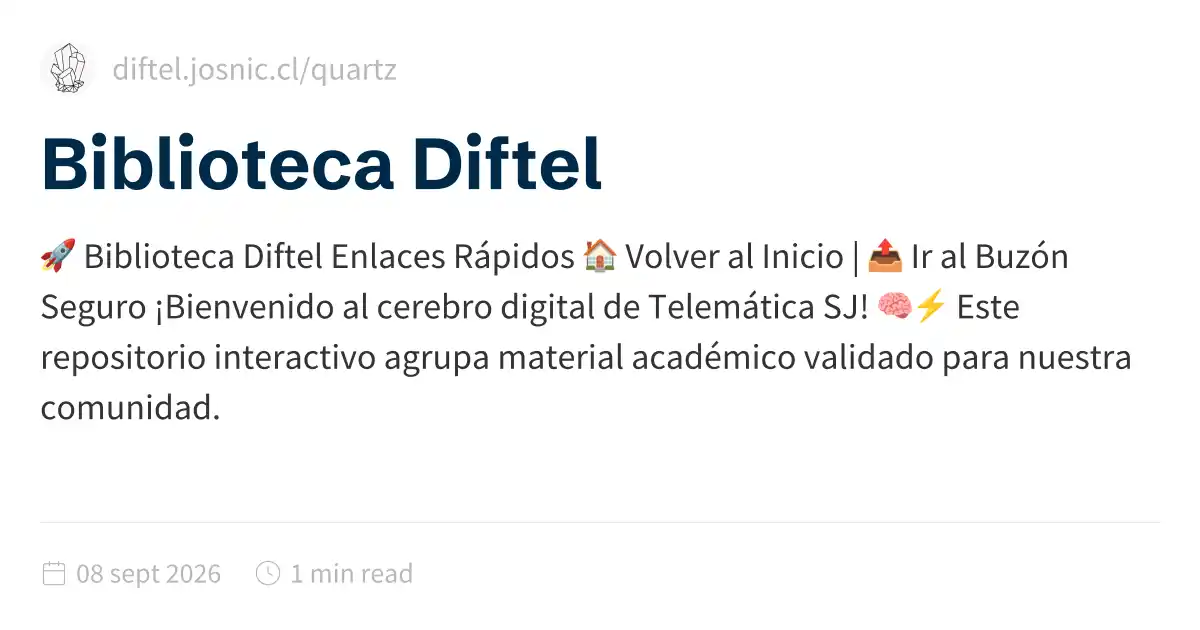
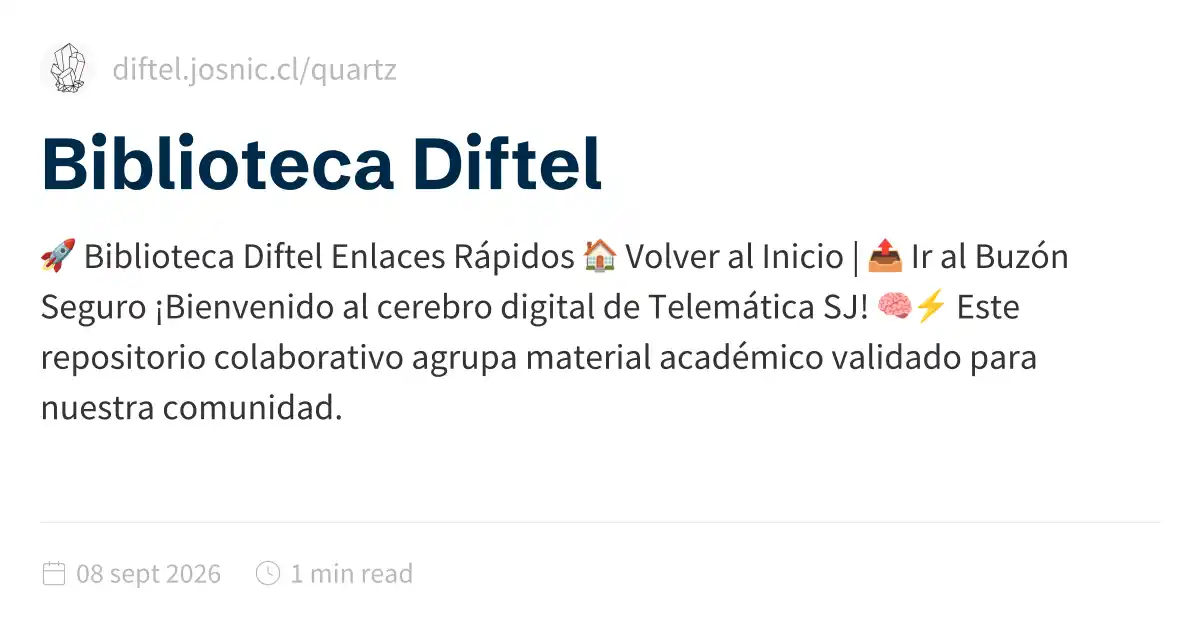
docs(quartz): actualizar apuntes y build de HTML

Changed region(s): [[0.185, 0.5429, 0.9558, 0.6032], [0.0308, 0.6333, 0.2775, 0.6635]]

diff --git a/data/quartz_public/index.html b/data/quartz_public/index.html
@@ -1,5 +1,5 @@
 <!DOCTYPE html>
-<html lang="es" dir="ltr"><head><title>Biblioteca Diftel</title><meta charset="utf-8"/><link rel="preload" href="./index-b246a986.css" as="style"/><link rel="preload" href="./prescript-2bfc6315.js" as="script"/><link rel="preconnect" href="https://fonts.googleapis.com"/><link rel="preconnect" href="https://fonts.gstatic.com"/><link rel="stylesheet" href="https://fonts.googleapis.com/css2?family=Schibsted Grotesk:wght@400;700&amp;family=Source Sans Pro:ital,wght@0,400;0,600;1,400;1,600&amp;family=IBM Plex Mono:wght@400;600&amp;display=swap"/><link rel="preconnect" href="https://cdnjs.cloudflare.com" crossorigin="anonymous"/><meta name="viewport" content="width=device-width, initial-scale=1.0"/><meta name="og:site_name" content="Drive Telemático"/><meta property="og:title" content="Biblioteca Diftel"/><meta property="og:type" content="website"/><meta name="twitter:card" content="summary_large_image"/><meta name="twitter:title" content="Biblioteca Diftel"/><meta name="twitter:description" content="🚀 Biblioteca Diftel Enlaces Rápidos 🏠 Volver al Inicio | 📤 Ir al Buzón Seguro ¡Bienvenido al cerebro digital de Telemática SJ! 🧠⚡ Este repositorio interactivo agrupa material académico validado para nuestra comunidad."/><meta property="og:description" content="🚀 Biblioteca Diftel Enlaces Rápidos 🏠 Volver al Inicio | 📤 Ir al Buzón Seguro ¡Bienvenido al cerebro digital de Telemática SJ! 🧠⚡ Este repositorio interactivo agrupa material académico validado para nuestra comunidad."/><meta property="og:image:alt" content="🚀 Biblioteca Diftel Enlaces Rápidos 🏠 Volver al Inicio | 📤 Ir al Buzón Seguro ¡Bienvenido al cerebro digital de Telemática SJ! 🧠⚡ Este repositorio interactivo agrupa material académico validado para nuestra comunidad."/><meta property="twitter:domain" content="diftel.josnic.cl/quartz"/><meta property="og:url" content="https://diftel.josnic.cl/quartz/index"/><meta property="twitter:url" content="https://diftel.josnic.cl/quartz/index"/><link rel="icon" href="./static/icon.png"/><meta name="description" content="🚀 Biblioteca Diftel Enlaces Rápidos 🏠 Volver al Inicio | 📤 Ir al Buzón Seguro ¡Bienvenido al cerebro digital de Telemática SJ! 🧠⚡ Este repositorio interactivo agrupa material académico validado para nuestra comunidad."/><meta name="generator" content="Quartz"/><link href="./index-b246a986.css" rel="stylesheet" type="text/css" data-persist="true"/><link href="./component-735924e0.css" rel="stylesheet" type="text/css" data-persist="true"/><link href="./component-589c1cea.css" rel="stylesheet" type="text/css" data-persist="true"/><link href="./component-bbc3f7c0.css" rel="stylesheet" type="text/css" data-persist="true"/><link href="./component-2911f5d1.css" rel="stylesheet" type="text/css" data-persist="true"/><link href="./component-e427079e.css" rel="stylesheet" type="text/css" data-persist="true"/><link href="./component-53b25b2b.css" rel="stylesheet" type="text/css" data-persist="true"/><link href="./component-c93c6a44.css" rel="stylesheet" type="text/css" data-persist="true"/><link href="./component-8a06014f.css" rel="stylesheet" type="text/css" data-persist="true"/><link href="./component-77d6a441.css" rel="stylesheet" type="text/css" data-persist="true"/><link href="./component-6ee21cee.css" rel="stylesheet" type="text/css" data-persist="true"/><link href="./component-1ea6ad18.css" rel="stylesheet" type="text/css" data-persist="true"/><link href="./component-34bdfded.css" rel="stylesheet" type="text/css" data-persist="true"/><link href="./component-788c9ca3.css" rel="stylesheet" type="text/css" data-persist="true"/><link href="./component-642859cd.css" rel="stylesheet" type="text/css" data-persist="true"/><link href="./component-4abc06bd.css" rel="stylesheet" type="text/css" data-persist="true"/><link href="./component-274a3dfe.css" rel="stylesheet" type="text/css" data-persist="true"/><link href="./component-94cb6c84.css" rel="stylesheet" type="text/css" data-persist="true"/><link href="./component-58d5ff56.css" rel="stylesheet" type="text/css" data-persist="true"/><link href="./component-7262b5a7.css" rel="stylesheet" type="text/css" data-persist="true"/><link href="./static/resource-style-a5c806d2.css" rel="stylesheet" type="text/css" data-persist="true"/><link href="./static/resource-style-6bd36952.css" rel="stylesheet" type="text/css" data-persist="true"/><link href="./static/resource-style-9857b007.css" rel="stylesheet" type="text/css" data-persist="true"/><link href="./static/resource-style-d3a1a224.css" rel="stylesheet" type="text/css" data-persist="true"/><link href="https://cdn.jsdelivr.net/npm/katex@0.16.11/dist/katex.min.css" rel="stylesheet" type="text/css" data-persist="true"/><script src="./prescript-2bfc6315.js" type="application/javascript" data-persist="true"></script><script type="application/javascript" data-persist="true">const fetchData = fetch("./static/contentIndex.json").then(data => data.json())</script><link rel="preconnect" href="https://fonts.googleapis.com"/><link rel="preconnect" href="https://fonts.gstatic.com" crossorigin="anonymous"/><link rel="stylesheet" href="https://fonts.googleapis.com/css2?family=Schibsted%20Grotesk%3Awght%40400%3B700&amp;family=Source%20Sans%20Pro%3Aital%2Cwght%400%2C400%3B0%2C600%3B1%2C400%3B1%2C600&amp;family=IBM%20Plex%20Mono%3Awght%40400%3B600&amp;display=swap"/><meta property="og:image:width" content="1200"/><meta property="og:image:height" content="630"/><meta property="og:image" content="https://diftel.josnic.cl/quartz/index-og-image.webp"/><meta property="og:image:url" content="https://diftel.josnic.cl/quartz/index-og-image.webp"/><meta name="twitter:image" content="https://diftel.josnic.cl/quartz/index-og-image.webp"/><meta property="og:image:type" content="image/webp"/></head><body data-slug="index" data-basepath="/quartz"><div id="quartz-root" class="page" data-frame="default"><div id="quartz-body"><div class="left sidebar"><h2 class="page-title"><a href=".">Drive Telemático</a></h2><div class="mobile-only"><div class="spacer"></div></div><div class="flex-component" style="flex-direction: row; flex-wrap: nowrap; gap: 0.5rem;"><div style="flex-grow: 1; flex-shrink: 1; flex-basis: auto; order: 0; align-self: center; justify-self: center;"><div class="search"><button class="search-button" aria-label="Buscar" aria-expanded="false"><svg role="img" xmlns="http://www.w3.org/2000/svg" viewBox="0 0 19.9 19.7"><title>Search</title><g class="search-path" fill="none"><path stroke-linecap="square" d="M18.5 18.3l-5.4-5.4"></path><circle cx="8" cy="8" r="7"></circle></g></svg><p>Buscar</p></button><div class="search-container"><div class="search-space"><input autocomplete="off" class="search-bar" name="search" type="text" aria-label="Buscar algo..." placeholder="Buscar algo..."/><div class="search-layout" data-preview="true" data-field-priority="[&quot;title&quot;,&quot;content&quot;,&quot;tags&quot;]"></div></div></div></div></div><div style="flex-grow: 0; flex-shrink: 1; flex-basis: auto; order: 0; align-self: center; justify-self: center;"><button class="darkmode" aria-label="Modo oscuro"><svg xmlns="http://www.w3.org/2000/svg" xmlns:xlink="http://www.w3.org/1999/xlink" version="1.1" class="dayIcon" x="0px" y="0px" viewBox="0 0 35 35" style="enable-background:new 0 0 35 35" xml:space="preserve" aria-label="Modo oscuro"><title>Modo oscuro</title><path d="M6,17.5C6,16.672,5.328,16,4.5,16h-3C0.672,16,0,16.672,0,17.5    S0.672,19,1.5,19h3C5.328,19,6,18.328,6,17.5z M7.5,26c-0.414,0-0.789,0.168-1.061,0.439l-2,2C4.168,28.711,4,29.086,4,29.5    C4,30.328,4.671,31,5.5,31c0.414,0,0.789-0.168,1.06-0.44l2-2C8.832,28.289,9,27.914,9,27.5C9,26.672,8.329,26,7.5,26z M17.5,6    C18.329,6,19,5.328,19,4.5v-3C19,0.672,18.329,0,17.5,0S16,0.672,16,1.5v3C16,5.328,16.671,6,17.5,6z M27.5,9    c0.414,0,0.789-0.168,1.06-0.439l2-2C30.832,6.289,31,5.914,31,5.5C31,4.672,30.329,4,29.5,4c-0.414,0-0.789,0.168-1.061,0.44    l-2,2C26.168,6.711,26,7.086,26,7.5C26,8.328,26.671,9,27.5,9z M6.439,8.561C6.711,8.832,7.086,9,7.5,9C8.328,9,9,8.328,9,7.5    c0-0.414-0.168-0.789-0.439-1.061l-2-2C6.289,4.168,5.914,4,5.5,4C4.672,4,4,4.672,4,5.5c0,0.414,0.168,0.789,0.439,1.06    L6.439,8.561z M33.5,16h-3c-0.828,0-1.5,0.672-1.5,1.5s0.672,1.5,1.5,1.5h3c0.828,0,1.5-0.672,1.5-1.5S34.328,16,33.5,16z     M28.561,26.439C28.289,26.168,27.914,26,27.5,26c-0.828,0-1.5,0.672-1.5,1.5c0,0.414,0.168,0.789,0.439,1.06l2,2    C28.711,30.832,29.086,31,29.5,31c0.828,0,1.5-0.672,1.5-1.5c0-0.414-0.168-0.789-0.439-1.061L28.561,26.439z M17.5,29    c-0.829,0-1.5,0.672-1.5,1.5v3c0,0.828,0.671,1.5,1.5,1.5s1.5-0.672,1.5-1.5v-3C19,29.672,18.329,29,17.5,29z M17.5,7    C11.71,7,7,11.71,7,17.5S11.71,28,17.5,28S28,23.29,28,17.5S23.29,7,17.5,7z M17.5,25c-4.136,0-7.5-3.364-7.5-7.5    c0-4.136,3.364-7.5,7.5-7.5c4.136,0,7.5,3.364,7.5,7.5C25,21.636,21.636,25,17.5,25z"></path></svg><svg xmlns="http://www.w3.org/2000/svg" xmlns:xlink="http://www.w3.org/1999/xlink" version="1.1" class="nightIcon" x="0px" y="0px" viewBox="0 0 100 100" style="enable-background:new 0 0 100 100" xml:space="preserve" aria-label="Modo claro"><title>Modo claro</title><path d="M96.76,66.458c-0.853-0.852-2.15-1.064-3.23-0.534c-6.063,2.991-12.858,4.571-19.655,4.571  C62.022,70.495,50.88,65.88,42.5,57.5C29.043,44.043,25.658,23.536,34.076,6.47c0.532-1.08,0.318-2.379-0.534-3.23  c-0.851-0.852-2.15-1.064-3.23-0.534c-4.918,2.427-9.375,5.619-13.246,9.491c-9.447,9.447-14.65,22.008-14.65,35.369  c0,13.36,5.203,25.921,14.65,35.368s22.008,14.65,35.368,14.65c13.361,0,25.921-5.203,35.369-14.65  c3.872-3.871,7.064-8.328,9.491-13.246C97.826,68.608,97.611,67.309,96.76,66.458z"></path></svg></button></div><div style="flex-grow: 0; flex-shrink: 1; flex-basis: auto; order: 0; align-self: center; justify-self: center;"><button class="readermode" aria-label="Modo lector"><svg xmlns="http://www.w3.org/2000/svg" xmlns:xlink="http://www.w3.org/1999/xlink" version="1.1" class="readerIcon" fill="currentColor" stroke="currentColor" stroke-width="0.2" stroke-linecap="round" stroke-linejoin="round" width="64px" height="64px" viewBox="0 0 24 24" aria-label="Modo lector"><title>Modo lector</title><g transform="translate(-1.8, -1.8) scale(1.15, 1.2)"><path d="M8.9891247,2.5 C10.1384702,2.5 11.2209868,2.96705384 12.0049645,3.76669482 C12.7883914,2.96705384 13.8709081,2.5 15.0202536,2.5 L18.7549359,2.5 C19.1691495,2.5 19.5049359,2.83578644 19.5049359,3.25 L19.5046891,4.004 L21.2546891,4.00457396 C21.6343849,4.00457396 21.9481801,4.28672784 21.9978425,4.6528034 L22.0046891,4.75457396 L22.0046891,20.25 C22.0046891,20.6296958 21.7225353,20.943491 21.3564597,20.9931534 L21.2546891,21 L2.75468914,21 C2.37499337,21 2.06119817,20.7178461 2.01153575,20.3517706 L2.00468914,20.25 L2.00468914,4.75457396 C2.00468914,4.37487819 2.28684302,4.061083 2.65291858,4.01142057 L2.75468914,4.00457396 L4.50368914,4.004 L4.50444233,3.25 C4.50444233,2.87030423 4.78659621,2.55650904 5.15267177,2.50684662 L5.25444233,2.5 L8.9891247,2.5 Z M4.50368914,5.504 L3.50468914,5.504 L3.50468914,19.5 L10.9478955,19.4998273 C10.4513189,18.9207296 9.73864328,18.5588115 8.96709342,18.5065584 L8.77307039,18.5 L5.25444233,18.5 C4.87474657,18.5 4.56095137,18.2178461 4.51128895,17.8517706 L4.50444233,17.75 L4.50368914,5.504 Z M19.5049359,17.75 C19.5049359,18.1642136 19.1691495,18.5 18.7549359,18.5 L15.2363079,18.5 C14.3910149,18.5 13.5994408,18.8724714 13.0614828,19.4998273 L20.5046891,19.5 L20.5046891,5.504 L19.5046891,5.504 L19.5049359,17.75 Z M18.0059359,3.999 L15.0202536,4 L14.8259077,4.00692283 C13.9889509,4.06666544 13.2254227,4.50975805 12.7549359,5.212 L12.7549359,17.777 L12.7782651,17.7601316 C13.4923805,17.2719483 14.3447024,17 15.2363079,17 L18.0059359,16.999 L18.0056891,4.798 L18.0033792,4.75457396 L18.0056891,4.71 L18.0059359,3.999 Z M8.9891247,4 L6.00368914,3.999 L6.00599909,4.75457396 L6.00599909,4.75457396 L6.00368914,4.783 L6.00368914,16.999 L8.77307039,17 C9.57551536,17 10.3461406,17.2202781 11.0128313,17.6202194 L11.2536891,17.776 L11.2536891,5.211 C10.8200889,4.56369974 10.1361548,4.13636104 9.37521067,4.02745763 L9.18347055,4.00692283 L8.9891247,4 Z"></path></g></svg></button></div></div><div class="explorer nav-files-container" data-behavior="link" data-collapsed="collapsed" data-savestate="true" data-data-fns="{&quot;order&quot;:[&quot;filter&quot;,&quot;map&quot;,&quot;sort&quot;],&quot;sortFn&quot;:&quot;(a2, b2) => {\n    if (!a2.isFolder &amp;&amp; !b2.isFolder || a2.isFolder &amp;&amp; b2.isFolder) {\n      return (a2.displayName || \&quot;\&quot;).localeCompare(b2.displayName || \&quot;\&quot;, void 0, {\n        numeric: true,\n        sensitivity: \&quot;base\&quot;\n      });\n    }\n    if (!a2.isFolder &amp;&amp; b2.isFolder) {\n      return 1;\n    }\n    return -1;\n  }&quot;,&quot;filterFn&quot;:&quot;(node) => node.slugSegment !== \&quot;tags\&quot;&quot;,&quot;mapFn&quot;:&quot;(node) => {\n    return node;\n  }&quot;}"><button type="button" class="explorer-toggle mobile-explorer hide-until-loaded" data-mobile="true" aria-controls="explorer-64" aria-label="Explorador"><svg xmlns="http://www.w3.org/2000/svg" width="24" height="24" viewBox="0 0 24 24" stroke-width="2" stroke-linecap="round" stroke-linejoin="round" class="lucide-menu"><line x1="4" x2="20" y1="12" y2="12"></line><line x1="4" x2="20" y1="6" y2="6"></line><line x1="4" x2="20" y1="18" y2="18"></line></svg></button><button type="button" class="title-button explorer-toggle desktop-explorer" data-mobile="false" aria-expanded="true"><h2>Explorador</h2><svg xmlns="http://www.w3.org/2000/svg" width="14" height="14" viewBox="5 8 14 8" fill="none" stroke="currentColor" stroke-width="2" stroke-linecap="round" stroke-linejoin="round" class="fold"><polyline points="6 9 12 15 18 9"></polyline></svg></button><div id="explorer-64" class="explorer-content" aria-expanded="false" role="group"><ul class="explorer-ul overflow" id="list-0"><li class="overflow-end"></li></ul></div><template id="template-file"><li><a href="#" class="nav-file-title tree-item-self"></a></li></template><template id="template-folder"><li><div class="folder-container nav-folder-title tree-item-self"><svg xmlns="http://www.w3.org/2000/svg" width="12" height="12" viewBox="5 8 14 8" fill="none" stroke="currentColor" stroke-width="2" stroke-linecap="round" stroke-linejoin="round" class="folder-icon nav-folder-collapse-indicator collapse-icon"><polyline points="6 9 12 15 18 9"></polyline></svg><div><button class="folder-button"><span class="folder-title"></span></button></div></div><div class="folder-outer"><ul class="content tree-item-children"></ul></div></li></template></div></div><div class="center"><div class="page-header"><div class="popover-hint"><h1 class="article-title">Biblioteca Diftel</h1><p show-comma="true" class="content-meta"><time datetime="2026-09-08T17:31:31.000Z">08 sept 2026</time><span>Se lee en 1 min</span></p></div></div><article class="popover-hint"><div class="markdown-preview-view markdown-rendered"><h1 id="-biblioteca-diftel">🚀 Biblioteca Diftel<a role="anchor" aria-hidden="true" tabindex="-1" data-no-popover="true" href="#-biblioteca-diftel" class="internal internal-link"><svg width="18" height="18" viewBox="0 0 24 24" fill="none" stroke="currentColor" stroke-width="2" stroke-linecap="round" stroke-linejoin="round"><path d="M10 13a5 5 0 0 0 7.54.54l3-3a5 5 0 0 0-7.07-7.07l-1.72 1.71"></path><path d="M14 11a5 5 0 0 0-7.54-.54l-3 3a5 5 0 0 0 7.07 7.07l1.71-1.71"></path></svg></a></h1>
+<html lang="es" dir="ltr"><head><title>Biblioteca Diftel</title><meta charset="utf-8"/><link rel="preload" href="./index-b246a986.css" as="style"/><link rel="preload" href="./prescript-2bfc6315.js" as="script"/><link rel="preconnect" href="https://fonts.googleapis.com"/><link rel="preconnect" href="https://fonts.gstatic.com"/><link rel="stylesheet" href="https://fonts.googleapis.com/css2?family=Schibsted Grotesk:wght@400;700&amp;family=Source Sans Pro:ital,wght@0,400;0,600;1,400;1,600&amp;family=IBM Plex Mono:wght@400;600&amp;display=swap"/><link rel="preconnect" href="https://cdnjs.cloudflare.com" crossorigin="anonymous"/><meta name="viewport" content="width=device-width, initial-scale=1.0"/><meta name="og:site_name" content="Drive Telemático"/><meta property="og:title" content="Biblioteca Diftel"/><meta property="og:type" content="website"/><meta name="twitter:card" content="summary_large_image"/><meta name="twitter:title" content="Biblioteca Diftel"/><meta name="twitter:description" content="🚀 Biblioteca Diftel Enlaces Rápidos 🏠 Volver al Inicio | 📤 Ir al Buzón Seguro ¡Bienvenido al cerebro digital de Telemática SJ! 🧠⚡ Este repositorio colaborativo agrupa material académico validado para nuestra comunidad."/><meta property="og:description" content="🚀 Biblioteca Diftel Enlaces Rápidos 🏠 Volver al Inicio | 📤 Ir al Buzón Seguro ¡Bienvenido al cerebro digital de Telemática SJ! 🧠⚡ Este repositorio colaborativo agrupa material académico validado para nuestra comunidad."/><meta property="og:image:alt" content="🚀 Biblioteca Diftel Enlaces Rápidos 🏠 Volver al Inicio | 📤 Ir al Buzón Seguro ¡Bienvenido al cerebro digital de Telemática SJ! 🧠⚡ Este repositorio colaborativo agrupa material académico validado para nuestra comunidad."/><meta property="twitter:domain" content="diftel.josnic.cl/quartz"/><meta property="og:url" content="https://diftel.josnic.cl/quartz/index"/><meta property="twitter:url" content="https://diftel.josnic.cl/quartz/index"/><link rel="icon" href="./static/icon.png"/><meta name="description" content="🚀 Biblioteca Diftel Enlaces Rápidos 🏠 Volver al Inicio | 📤 Ir al Buzón Seguro ¡Bienvenido al cerebro digital de Telemática SJ! 🧠⚡ Este repositorio colaborativo agrupa material académico validado para nuestra comunidad."/><meta name="generator" content="Quartz"/><link href="./index-b246a986.css" rel="stylesheet" type="text/css" data-persist="true"/><link href="./component-735924e0.css" rel="stylesheet" type="text/css" data-persist="true"/><link href="./component-589c1cea.css" rel="stylesheet" type="text/css" data-persist="true"/><link href="./component-bbc3f7c0.css" rel="stylesheet" type="text/css" data-persist="true"/><link href="./component-2911f5d1.css" rel="stylesheet" type="text/css" data-persist="true"/><link href="./component-e427079e.css" rel="stylesheet" type="text/css" data-persist="true"/><link href="./component-53b25b2b.css" rel="stylesheet" type="text/css" data-persist="true"/><link href="./component-c93c6a44.css" rel="stylesheet" type="text/css" data-persist="true"/><link href="./component-8a06014f.css" rel="stylesheet" type="text/css" data-persist="true"/><link href="./component-77d6a441.css" rel="stylesheet" type="text/css" data-persist="true"/><link href="./component-6ee21cee.css" rel="stylesheet" type="text/css" data-persist="true"/><link href="./component-1ea6ad18.css" rel="stylesheet" type="text/css" data-persist="true"/><link href="./component-34bdfded.css" rel="stylesheet" type="text/css" data-persist="true"/><link href="./component-788c9ca3.css" rel="stylesheet" type="text/css" data-persist="true"/><link href="./component-642859cd.css" rel="stylesheet" type="text/css" data-persist="true"/><link href="./component-4abc06bd.css" rel="stylesheet" type="text/css" data-persist="true"/><link href="./component-274a3dfe.css" rel="stylesheet" type="text/css" data-persist="true"/><link href="./component-94cb6c84.css" rel="stylesheet" type="text/css" data-persist="true"/><link href="./component-58d5ff56.css" rel="stylesheet" type="text/css" data-persist="true"/><link href="./component-7262b5a7.css" rel="stylesheet" type="text/css" data-persist="true"/><link href="./static/resource-style-a5c806d2.css" rel="stylesheet" type="text/css" data-persist="true"/><link href="./static/resource-style-6bd36952.css" rel="stylesheet" type="text/css" data-persist="true"/><link href="./static/resource-style-9857b007.css" rel="stylesheet" type="text/css" data-persist="true"/><link href="./static/resource-style-d3a1a224.css" rel="stylesheet" type="text/css" data-persist="true"/><link href="https://cdn.jsdelivr.net/npm/katex@0.16.11/dist/katex.min.css" rel="stylesheet" type="text/css" data-persist="true"/><script src="./prescript-2bfc6315.js" type="application/javascript" data-persist="true"></script><script type="application/javascript" data-persist="true">const fetchData = fetch("./static/contentIndex.json").then(data => data.json())</script><link rel="preconnect" href="https://fonts.googleapis.com"/><link rel="preconnect" href="https://fonts.gstatic.com" crossorigin="anonymous"/><link rel="stylesheet" href="https://fonts.googleapis.com/css2?family=Schibsted%20Grotesk%3Awght%40400%3B700&amp;family=Source%20Sans%20Pro%3Aital%2Cwght%400%2C400%3B0%2C600%3B1%2C400%3B1%2C600&amp;family=IBM%20Plex%20Mono%3Awght%40400%3B600&amp;display=swap"/><meta property="og:image:width" content="1200"/><meta property="og:image:height" content="630"/><meta property="og:image" content="https://diftel.josnic.cl/quartz/index-og-image.webp"/><meta property="og:image:url" content="https://diftel.josnic.cl/quartz/index-og-image.webp"/><meta name="twitter:image" content="https://diftel.josnic.cl/quartz/index-og-image.webp"/><meta property="og:image:type" content="image/webp"/></head><body data-slug="index" data-basepath="/quartz"><div id="quartz-root" class="page" data-frame="default"><div id="quartz-body"><div class="left sidebar"><h2 class="page-title"><a href=".">Drive Telemático</a></h2><div class="mobile-only"><div class="spacer"></div></div><div class="flex-component" style="flex-direction: row; flex-wrap: nowrap; gap: 0.5rem;"><div style="flex-grow: 1; flex-shrink: 1; flex-basis: auto; order: 0; align-self: center; justify-self: center;"><div class="search"><button class="search-button" aria-label="Buscar" aria-expanded="false"><svg role="img" xmlns="http://www.w3.org/2000/svg" viewBox="0 0 19.9 19.7"><title>Search</title><g class="search-path" fill="none"><path stroke-linecap="square" d="M18.5 18.3l-5.4-5.4"></path><circle cx="8" cy="8" r="7"></circle></g></svg><p>Buscar</p></button><div class="search-container"><div class="search-space"><input autocomplete="off" class="search-bar" name="search" type="text" aria-label="Buscar algo..." placeholder="Buscar algo..."/><div class="search-layout" data-preview="true" data-field-priority="[&quot;title&quot;,&quot;content&quot;,&quot;tags&quot;]"></div></div></div></div></div><div style="flex-grow: 0; flex-shrink: 1; flex-basis: auto; order: 0; align-self: center; justify-self: center;"><button class="darkmode" aria-label="Modo oscuro"><svg xmlns="http://www.w3.org/2000/svg" xmlns:xlink="http://www.w3.org/1999/xlink" version="1.1" class="dayIcon" x="0px" y="0px" viewBox="0 0 35 35" style="enable-background:new 0 0 35 35" xml:space="preserve" aria-label="Modo oscuro"><title>Modo oscuro</title><path d="M6,17.5C6,16.672,5.328,16,4.5,16h-3C0.672,16,0,16.672,0,17.5    S0.672,19,1.5,19h3C5.328,19,6,18.328,6,17.5z M7.5,26c-0.414,0-0.789,0.168-1.061,0.439l-2,2C4.168,28.711,4,29.086,4,29.5    C4,30.328,4.671,31,5.5,31c0.414,0,0.789-0.168,1.06-0.44l2-2C8.832,28.289,9,27.914,9,27.5C9,26.672,8.329,26,7.5,26z M17.5,6    C18.329,6,19,5.328,19,4.5v-3C19,0.672,18.329,0,17.5,0S16,0.672,16,1.5v3C16,5.328,16.671,6,17.5,6z M27.5,9    c0.414,0,0.789-0.168,1.06-0.439l2-2C30.832,6.289,31,5.914,31,5.5C31,4.672,30.329,4,29.5,4c-0.414,0-0.789,0.168-1.061,0.44    l-2,2C26.168,6.711,26,7.086,26,7.5C26,8.328,26.671,9,27.5,9z M6.439,8.561C6.711,8.832,7.086,9,7.5,9C8.328,9,9,8.328,9,7.5    c0-0.414-0.168-0.789-0.439-1.061l-2-2C6.289,4.168,5.914,4,5.5,4C4.672,4,4,4.672,4,5.5c0,0.414,0.168,0.789,0.439,1.06    L6.439,8.561z M33.5,16h-3c-0.828,0-1.5,0.672-1.5,1.5s0.672,1.5,1.5,1.5h3c0.828,0,1.5-0.672,1.5-1.5S34.328,16,33.5,16z     M28.561,26.439C28.289,26.168,27.914,26,27.5,26c-0.828,0-1.5,0.672-1.5,1.5c0,0.414,0.168,0.789,0.439,1.06l2,2    C28.711,30.832,29.086,31,29.5,31c0.828,0,1.5-0.672,1.5-1.5c0-0.414-0.168-0.789-0.439-1.061L28.561,26.439z M17.5,29    c-0.829,0-1.5,0.672-1.5,1.5v3c0,0.828,0.671,1.5,1.5,1.5s1.5-0.672,1.5-1.5v-3C19,29.672,18.329,29,17.5,29z M17.5,7    C11.71,7,7,11.71,7,17.5S11.71,28,17.5,28S28,23.29,28,17.5S23.29,7,17.5,7z M17.5,25c-4.136,0-7.5-3.364-7.5-7.5    c0-4.136,3.364-7.5,7.5-7.5c4.136,0,7.5,3.364,7.5,7.5C25,21.636,21.636,25,17.5,25z"></path></svg><svg xmlns="http://www.w3.org/2000/svg" xmlns:xlink="http://www.w3.org/1999/xlink" version="1.1" class="nightIcon" x="0px" y="0px" viewBox="0 0 100 100" style="enable-background:new 0 0 100 100" xml:space="preserve" aria-label="Modo claro"><title>Modo claro</title><path d="M96.76,66.458c-0.853-0.852-2.15-1.064-3.23-0.534c-6.063,2.991-12.858,4.571-19.655,4.571  C62.022,70.495,50.88,65.88,42.5,57.5C29.043,44.043,25.658,23.536,34.076,6.47c0.532-1.08,0.318-2.379-0.534-3.23  c-0.851-0.852-2.15-1.064-3.23-0.534c-4.918,2.427-9.375,5.619-13.246,9.491c-9.447,9.447-14.65,22.008-14.65,35.369  c0,13.36,5.203,25.921,14.65,35.368s22.008,14.65,35.368,14.65c13.361,0,25.921-5.203,35.369-14.65  c3.872-3.871,7.064-8.328,9.491-13.246C97.826,68.608,97.611,67.309,96.76,66.458z"></path></svg></button></div><div style="flex-grow: 0; flex-shrink: 1; flex-basis: auto; order: 0; align-self: center; justify-self: center;"><button class="readermode" aria-label="Modo lector"><svg xmlns="http://www.w3.org/2000/svg" xmlns:xlink="http://www.w3.org/1999/xlink" version="1.1" class="readerIcon" fill="currentColor" stroke="currentColor" stroke-width="0.2" stroke-linecap="round" stroke-linejoin="round" width="64px" height="64px" viewBox="0 0 24 24" aria-label="Modo lector"><title>Modo lector</title><g transform="translate(-1.8, -1.8) scale(1.15, 1.2)"><path d="M8.9891247,2.5 C10.1384702,2.5 11.2209868,2.96705384 12.0049645,3.76669482 C12.7883914,2.96705384 13.8709081,2.5 15.0202536,2.5 L18.7549359,2.5 C19.1691495,2.5 19.5049359,2.83578644 19.5049359,3.25 L19.5046891,4.004 L21.2546891,4.00457396 C21.6343849,4.00457396 21.9481801,4.28672784 21.9978425,4.6528034 L22.0046891,4.75457396 L22.0046891,20.25 C22.0046891,20.6296958 21.7225353,20.943491 21.3564597,20.9931534 L21.2546891,21 L2.75468914,21 C2.37499337,21 2.06119817,20.7178461 2.01153575,20.3517706 L2.00468914,20.25 L2.00468914,4.75457396 C2.00468914,4.37487819 2.28684302,4.061083 2.65291858,4.01142057 L2.75468914,4.00457396 L4.50368914,4.004 L4.50444233,3.25 C4.50444233,2.87030423 4.78659621,2.55650904 5.15267177,2.50684662 L5.25444233,2.5 L8.9891247,2.5 Z M4.50368914,5.504 L3.50468914,5.504 L3.50468914,19.5 L10.9478955,19.4998273 C10.4513189,18.9207296 9.73864328,18.5588115 8.96709342,18.5065584 L8.77307039,18.5 L5.25444233,18.5 C4.87474657,18.5 4.56095137,18.2178461 4.51128895,17.8517706 L4.50444233,17.75 L4.50368914,5.504 Z M19.5049359,17.75 C19.5049359,18.1642136 19.1691495,18.5 18.7549359,18.5 L15.2363079,18.5 C14.3910149,18.5 13.5994408,18.8724714 13.0614828,19.4998273 L20.5046891,19.5 L20.5046891,5.504 L19.5046891,5.504 L19.5049359,17.75 Z M18.0059359,3.999 L15.0202536,4 L14.8259077,4.00692283 C13.9889509,4.06666544 13.2254227,4.50975805 12.7549359,5.212 L12.7549359,17.777 L12.7782651,17.7601316 C13.4923805,17.2719483 14.3447024,17 15.2363079,17 L18.0059359,16.999 L18.0056891,4.798 L18.0033792,4.75457396 L18.0056891,4.71 L18.0059359,3.999 Z M8.9891247,4 L6.00368914,3.999 L6.00599909,4.75457396 L6.00599909,4.75457396 L6.00368914,4.783 L6.00368914,16.999 L8.77307039,17 C9.57551536,17 10.3461406,17.2202781 11.0128313,17.6202194 L11.2536891,17.776 L11.2536891,5.211 C10.8200889,4.56369974 10.1361548,4.13636104 9.37521067,4.02745763 L9.18347055,4.00692283 L8.9891247,4 Z"></path></g></svg></button></div></div><div class="explorer nav-files-container" data-behavior="link" data-collapsed="collapsed" data-savestate="true" data-data-fns="{&quot;order&quot;:[&quot;filter&quot;,&quot;map&quot;,&quot;sort&quot;],&quot;sortFn&quot;:&quot;(a2, b2) => {\n    if (!a2.isFolder &amp;&amp; !b2.isFolder || a2.isFolder &amp;&amp; b2.isFolder) {\n      return (a2.displayName || \&quot;\&quot;).localeCompare(b2.displayName || \&quot;\&quot;, void 0, {\n        numeric: true,\n        sensitivity: \&quot;base\&quot;\n      });\n    }\n    if (!a2.isFolder &amp;&amp; b2.isFolder) {\n      return 1;\n    }\n    return -1;\n  }&quot;,&quot;filterFn&quot;:&quot;(node) => node.slugSegment !== \&quot;tags\&quot;&quot;,&quot;mapFn&quot;:&quot;(node) => {\n    return node;\n  }&quot;}"><button type="button" class="explorer-toggle mobile-explorer hide-until-loaded" data-mobile="true" aria-controls="explorer-64" aria-label="Explorador"><svg xmlns="http://www.w3.org/2000/svg" width="24" height="24" viewBox="0 0 24 24" stroke-width="2" stroke-linecap="round" stroke-linejoin="round" class="lucide-menu"><line x1="4" x2="20" y1="12" y2="12"></line><line x1="4" x2="20" y1="6" y2="6"></line><line x1="4" x2="20" y1="18" y2="18"></line></svg></button><button type="button" class="title-button explorer-toggle desktop-explorer" data-mobile="false" aria-expanded="true"><h2>Explorador</h2><svg xmlns="http://www.w3.org/2000/svg" width="14" height="14" viewBox="5 8 14 8" fill="none" stroke="currentColor" stroke-width="2" stroke-linecap="round" stroke-linejoin="round" class="fold"><polyline points="6 9 12 15 18 9"></polyline></svg></button><div id="explorer-64" class="explorer-content" aria-expanded="false" role="group"><ul class="explorer-ul overflow" id="list-0"><li class="overflow-end"></li></ul></div><template id="template-file"><li><a href="#" class="nav-file-title tree-item-self"></a></li></template><template id="template-folder"><li><div class="folder-container nav-folder-title tree-item-self"><svg xmlns="http://www.w3.org/2000/svg" width="12" height="12" viewBox="5 8 14 8" fill="none" stroke="currentColor" stroke-width="2" stroke-linecap="round" stroke-linejoin="round" class="folder-icon nav-folder-collapse-indicator collapse-icon"><polyline points="6 9 12 15 18 9"></polyline></svg><div><button class="folder-button"><span class="folder-title"></span></button></div></div><div class="folder-outer"><ul class="content tree-item-children"></ul></div></li></template></div></div><div class="center"><div class="page-header"><div class="popover-hint"><h1 class="article-title">Biblioteca Diftel</h1><p show-comma="true" class="content-meta"><time datetime="2026-09-08T17:42:38.000Z">08 sept 2026</time><span>Se lee en 1 min</span></p></div></div><article class="popover-hint"><div class="markdown-preview-view markdown-rendered"><h1 id="-biblioteca-diftel">🚀 Biblioteca Diftel<a role="anchor" aria-hidden="true" tabindex="-1" data-no-popover="true" href="#-biblioteca-diftel" class="internal internal-link"><svg width="18" height="18" viewBox="0 0 24 24" fill="none" stroke="currentColor" stroke-width="2" stroke-linecap="round" stroke-linejoin="round"><path d="M10 13a5 5 0 0 0 7.54.54l3-3a5 5 0 0 0-7.07-7.07l-1.72 1.71"></path><path d="M14 11a5 5 0 0 0-7.54-.54l-3 3a5 5 0 0 0 7.07 7.07l1.71-1.71"></path></svg></a></h1>
 <blockquote class="callout info" data-callout="info">
 <div class="callout-title">
                   <div class="callout-icon"></div>
@@ -11,26 +11,32 @@
 </div>
 </blockquote>
 <p>¡Bienvenido al cerebro digital de <strong>Telemática SJ</strong>! 🧠⚡
-Este repositorio interactivo agrupa material académico validado para nuestra comunidad.</p>
+Este repositorio colaborativo agrupa material académico validado para nuestra comunidad.</p>
 <hr/>
 <h2 id="-navega-tu-malla">🗺 Navega tu Malla<a role="anchor" aria-hidden="true" tabindex="-1" data-no-popover="true" href="#-navega-tu-malla" class="internal internal-link"><svg width="18" height="18" viewBox="0 0 24 24" fill="none" stroke="currentColor" stroke-width="2" stroke-linecap="round" stroke-linejoin="round"><path d="M10 13a5 5 0 0 0 7.54.54l3-3a5 5 0 0 0-7.07-7.07l-1.72 1.71"></path><path d="M14 11a5 5 0 0 0-7.54-.54l-3 3a5 5 0 0 0 7.07 7.07l1.71-1.71"></path></svg></a></h2>
 <p>Explora los recursos ordenados por asignatura:</p>
 <ul>
 <li>📚 <a href="./mallas/malla-nueva" class="internal internal-link alias" data-slug="mallas/malla-nueva">Malla Nueva</a></li>
 <li>🏛 <a href="./mallas/malla-antigua" class="internal internal-link alias" data-slug="mallas/malla-antigua">Malla Antigua</a></li>
+<li>📁 <a href="./archivos_pesados" class="internal internal-link" data-slug="archivos_pesados">Archivos_Pesados</a> (Explorador de archivos listos para usar)</li>
 </ul>
 <hr/>
-<h2 id="-guía-de-contribución">🤝 Guía de Contribución<a role="anchor" aria-hidden="true" tabindex="-1" data-no-popover="true" href="#-guía-de-contribución" class="internal internal-link"><svg width="18" height="18" viewBox="0 0 24 24" fill="none" stroke="currentColor" stroke-width="2" stroke-linecap="round" stroke-linejoin="round"><path d="M10 13a5 5 0 0 0 7.54.54l3-3a5 5 0 0 0-7.07-7.07l-1.72 1.71"></path><path d="M14 11a5 5 0 0 0-7.54-.54l-3 3a5 5 0 0 0 7.07 7.07l1.71-1.71"></path></svg></a></h2>
-<p>¡El repositorio lo construimos entre todos! Para aportar material (certámenes, resúmenes, laboratorios):</p>
+<h2 id="-cómo-contribuir">🤝 ¿Cómo Contribuir?<a role="anchor" aria-hidden="true" tabindex="-1" data-no-popover="true" href="#-cómo-contribuir" class="internal internal-link"><svg width="18" height="18" viewBox="0 0 24 24" fill="none" stroke="currentColor" stroke-width="2" stroke-linecap="round" stroke-linejoin="round"><path d="M10 13a5 5 0 0 0 7.54.54l3-3a5 5 0 0 0-7.07-7.07l-1.72 1.71"></path><path d="M14 11a5 5 0 0 0-7.54-.54l-3 3a5 5 0 0 0 7.07 7.07l1.71-1.71"></path></svg></a></h2>
+<p>¡Tú haces que esta biblioteca crezca! Hay <strong>dos formas</strong> de ayudar:</p>
+<h3 id="opción-a-donar-material--fácil-y-rápido">Opción A: Donar Material 📤 (Fácil y Rápido)<a role="anchor" aria-hidden="true" tabindex="-1" data-no-popover="true" href="#opción-a-donar-material--fácil-y-rápido" class="internal internal-link"><svg width="18" height="18" viewBox="0 0 24 24" fill="none" stroke="currentColor" stroke-width="2" stroke-linecap="round" stroke-linejoin="round"><path d="M10 13a5 5 0 0 0 7.54.54l3-3a5 5 0 0 0-7.07-7.07l-1.72 1.71"></path><path d="M14 11a5 5 0 0 0-7.54-.54l-3 3a5 5 0 0 0 7.07 7.07l1.71-1.71"></path></svg></a></h3>
+<p>Ideal si tienes pruebas, resúmenes o PDFs pesados:</p>
 <ol>
-<li><strong>Sube tu material 📤</strong>
-Ve al <a href="https://diftel.josnic.cl/buzon/" class="external external-link">Buzón Seguro<svg aria-hidden="true" class="external-icon" style="max-width:0.8em;max-height:0.8em;" viewBox="0 0 512 512"><path d="M320 0H288V64h32 82.7L201.4 265.4 178.7 288 224 333.3l22.6-22.6L448 109.3V192v32h64V192 32 0H480 320zM32 32H0V64 480v32H32 456h32V480 352 320H424v32 96H64V96h96 32V32H160 32z"></path></svg></a> e identifícate con tu correo USM.</li>
-<li><strong>Prepara tus archivos 📦</strong>
-Máximo <strong>2 GB</strong> por subida. Si tienes varias fotos o PDFs, comprímelos en un <code>.zip</code> o <code>.rar</code>.</li>
-<li><strong>Escaneo Automático 🛡</strong>
-ClamAV revisará tu archivo en cuarentena. ¡Seguridad ante todo!</li>
-<li><strong>Publicación 🌐</strong>
-Si está limpio, el equipo Diftel lo categorizará y publicará en la red.</li>
+<li>Sube tu archivo al <a href="https://diftel.josnic.cl/buzon/" class="external external-link">Buzón Seguro<svg aria-hidden="true" class="external-icon" style="max-width:0.8em;max-height:0.8em;" viewBox="0 0 512 512"><path d="M320 0H288V64h32 82.7L201.4 265.4 178.7 288 224 333.3l22.6-22.6L448 109.3V192v32h64V192 32 0H480 320zM32 32H0V64 480v32H32 456h32V480 352 320H424v32 96H64V96h96 32V32H160 32z"></path></svg></a> (Máx 2 GB, usa <code>.zip</code> si son varios).</li>
+<li>Nuestro antivirus lo revisará 🛡.</li>
+<li>Si está limpio, ¡el equipo Diftel se encargará del resto!</li>
+</ol>
+<h3 id="opción-b-escribir-y-categorizar-apuntes--modo-pro">Opción B: Escribir y Categorizar Apuntes ✍ (Modo Pro)<a role="anchor" aria-hidden="true" tabindex="-1" data-no-popover="true" href="#opción-b-escribir-y-categorizar-apuntes--modo-pro" class="internal internal-link"><svg width="18" height="18" viewBox="0 0 24 24" fill="none" stroke="currentColor" stroke-width="2" stroke-linecap="round" stroke-linejoin="round"><path d="M10 13a5 5 0 0 0 7.54.54l3-3a5 5 0 0 0-7.07-7.07l-1.72 1.71"></path><path d="M14 11a5 5 0 0 0-7.54-.54l-3 3a5 5 0 0 0 7.07 7.07l1.71-1.71"></path></svg></a></h3>
+<p>Ideal si quieres organizar las mallas o crear guías de estudio usando Markdown:</p>
+<ol>
+<li><strong>Clona</strong> nuestro repositorio desde GitHub.</li>
+<li><strong>Usa Obsidian</strong>: Abre la carpeta <code>quartz_app/content/</code> como si fuera tu bóveda.</li>
+<li><strong>Edita</strong>: Crea apuntes. Copia los links directos a los PDFs desde la página <a href="./archivos_pesados" class="internal internal-link" data-slug="archivos_pesados">Archivos_Pesados</a>.</li>
+<li><strong>Publica</strong>: Sube tus cambios a GitHub y abre un <strong>Pull Request</strong>. ¡Lo revisaremos y se subirá automáticamente a la web!</li>
 </ol></div></article><hr/><div class="page-footer"></div></div><div class="right sidebar"><div class="graph"><h3>Vista Gráfica</h3><div class="graph-outer"><div class="graph-container" data-cfg="{&quot;drag&quot;:true,&quot;zoom&quot;:true,&quot;depth&quot;:1,&quot;scale&quot;:1,&quot;repelForce&quot;:1.5,&quot;centerForce&quot;:0.3,&quot;linkDistance&quot;:45,&quot;fontSize&quot;:0.5,&quot;opacityScale&quot;:3,&quot;showTags&quot;:true,&quot;removeTags&quot;:[],&quot;focusOnHover&quot;:false,&quot;enableRadial&quot;:false}"></div><button class="global-graph-icon" aria-label="Global Graph"><svg version="1.1" xmlns="http://www.w3.org/2000/svg" xmlns:xlink="http://www.w3.org/1999/xlink" x="0px" y="0px" viewBox="0 0 55 55" fill="currentColor" xml:space="preserve"><path d="M49,0c-3.309,0-6,2.691-6,6c0,1.035,0.263,2.009,0.726,2.86l-9.829,9.829C32.542,17.634,30.846,17,29,17
                 s-3.542,0.634-4.898,1.688l-7.669-7.669C16.785,10.424,17,9.74,17,9c0-2.206-1.794-4-4-4S9,6.794,9,9s1.794,4,4,4
                 c0.74,0,1.424-0.215,2.019-0.567l7.669,7.669C21.634,21.458,21,23.154,21,25s0.634,3.542,1.688,4.897L10.024,42.562
@@ -41,4 +47,4 @@ Si está limpio, el equipo Diftel lo categorizará y publicará en la red.</li>
                 C46.042,11.405,47.451,12,49,12c3.309,0,6-2.691,6-6S52.309,0,49,0z M11,9c0-1.103,0.897-2,2-2s2,0.897,2,2s-0.897,2-2,2
                 S11,10.103,11,9z M6,51c-2.206,0-4-1.794-4-4s1.794-4,4-4s4,1.794,4,4S8.206,51,6,51z M33,49c0,2.206-1.794,4-4,4s-4-1.794-4-4
                 s1.794-4,4-4S33,46.794,33,49z M29,31c-3.309,0-6-2.691-6-6s2.691-6,6-6s6,2.691,6,6S32.309,31,29,31z M47,41c0,1.103-0.897,2-2,2
-                s-2-0.897-2-2s0.897-2,2-2S47,39.897,47,41z M49,10c-2.206,0-4-1.794-4-4s1.794-4,4-4s4,1.794,4,4S51.206,10,49,10z"></path></svg></button></div><div class="global-graph-outer"><div class="global-graph-container" data-cfg="{&quot;drag&quot;:true,&quot;zoom&quot;:true,&quot;depth&quot;:-1,&quot;scale&quot;:1,&quot;repelForce&quot;:2.5,&quot;centerForce&quot;:0.2,&quot;linkDistance&quot;:60,&quot;fontSize&quot;:0.5,&quot;opacityScale&quot;:3,&quot;showTags&quot;:true,&quot;removeTags&quot;:[],&quot;focusOnHover&quot;:true,&quot;enableRadial&quot;:true}"></div></div></div><div class="toc"><button type="button" class="toc-header" aria-controls="toc-63" aria-expanded="true"><h3>Tabla de Contenidos</h3><svg xmlns="http://www.w3.org/2000/svg" width="24" height="24" viewBox="0 0 24 24" fill="none" stroke="currentColor" stroke-width="2" stroke-linecap="round" stroke-linejoin="round" class="fold"><polyline points="6 9 12 15 18 9"></polyline></svg></button><ul id="list-0" class="toc-content overflow"><li class="depth-0"><a href="#-biblioteca-diftel" data-for="-biblioteca-diftel">🚀 Biblioteca Diftel</a></li><li class="depth-1"><a href="#-navega-tu-malla" data-for="-navega-tu-malla">🗺 Navega tu Malla</a></li><li class="depth-1"><a href="#-guía-de-contribución" data-for="-guía-de-contribución">🤝 Guía de Contribución</a></li><li class="overflow-end"></li></ul></div></div><footer class><p>Creado con <a href="https://quartz.jzhao.xyz/">Quartz v5.0.0</a> © 2026</p><ul><li><a href="https://github.com/josue-fourier/BibliotecaDiftel">GitHub</a></li></ul></footer></div></div></body><script src="./static/resource-after-e13fffa1.js" type="application/javascript" data-persist="true"></script><script src="./static/resource-after-8b336f9a.js" type="application/javascript" data-persist="true"></script><script src="./static/resource-after-baba652b.js" type="application/javascript" data-persist="true"></script><script src="./static/resource-after-5eb75950.js" type="module" data-persist="true"></script><script src="https://cdn.jsdelivr.net/npm/katex@0.16.11/dist/contrib/copy-tex.min.js" type="application/javascript" data-persist="true"></script><script src="./postscript-4655a0d8.js" type="module" data-persist="true"></script></html>
+                s-2-0.897-2-2s0.897-2,2-2S47,39.897,47,41z M49,10c-2.206,0-4-1.794-4-4s1.794-4,4-4s4,1.794,4,4S51.206,10,49,10z"></path></svg></button></div><div class="global-graph-outer"><div class="global-graph-container" data-cfg="{&quot;drag&quot;:true,&quot;zoom&quot;:true,&quot;depth&quot;:-1,&quot;scale&quot;:1,&quot;repelForce&quot;:2.5,&quot;centerForce&quot;:0.2,&quot;linkDistance&quot;:60,&quot;fontSize&quot;:0.5,&quot;opacityScale&quot;:3,&quot;showTags&quot;:true,&quot;removeTags&quot;:[],&quot;focusOnHover&quot;:true,&quot;enableRadial&quot;:true}"></div></div></div><div class="toc"><button type="button" class="toc-header" aria-controls="toc-63" aria-expanded="true"><h3>Tabla de Contenidos</h3><svg xmlns="http://www.w3.org/2000/svg" width="24" height="24" viewBox="0 0 24 24" fill="none" stroke="currentColor" stroke-width="2" stroke-linecap="round" stroke-linejoin="round" class="fold"><polyline points="6 9 12 15 18 9"></polyline></svg></button><ul id="list-0" class="toc-content overflow"><li class="depth-0"><a href="#-biblioteca-diftel" data-for="-biblioteca-diftel">🚀 Biblioteca Diftel</a></li><li class="depth-1"><a href="#-navega-tu-malla" data-for="-navega-tu-malla">🗺 Navega tu Malla</a></li><li class="depth-1"><a href="#-cómo-contribuir" data-for="-cómo-contribuir">🤝 ¿Cómo Contribuir?</a></li><li class="depth-2"><a href="#opción-a-donar-material--fácil-y-rápido" data-for="opción-a-donar-material--fácil-y-rápido">Opción A: Donar Material 📤 (Fácil y Rápido)</a></li><li class="depth-2"><a href="#opción-b-escribir-y-categorizar-apuntes--modo-pro" data-for="opción-b-escribir-y-categorizar-apuntes--modo-pro">Opción B: Escribir y Categorizar Apuntes ✍ (Modo Pro)</a></li><li class="overflow-end"></li></ul></div></div><footer class><p>Creado con <a href="https://quartz.jzhao.xyz/">Quartz v5.0.0</a> © 2026</p><ul><li><a href="https://github.com/josue-fourier/BibliotecaDiftel">GitHub</a></li></ul></footer></div></div></body><script src="./static/resource-after-e13fffa1.js" type="application/javascript" data-persist="true"></script><script src="./static/resource-after-8b336f9a.js" type="application/javascript" data-persist="true"></script><script src="./static/resource-after-baba652b.js" type="application/javascript" data-persist="true"></script><script src="./static/resource-after-5eb75950.js" type="module" data-persist="true"></script><script src="https://cdn.jsdelivr.net/npm/katex@0.16.11/dist/contrib/copy-tex.min.js" type="application/javascript" data-persist="true"></script><script src="./postscript-4655a0d8.js" type="module" data-persist="true"></script></html>

diff --git a/data/quartz_public/archivos_pesados.html b/data/quartz_public/archivos_pesados.html
@@ -80,4 +80,4 @@
                 C46.042,11.405,47.451,12,49,12c3.309,0,6-2.691,6-6S52.309,0,49,0z M11,9c0-1.103,0.897-2,2-2s2,0.897,2,2s-0.897,2-2,2
                 S11,10.103,11,9z M6,51c-2.206,0-4-1.794-4-4s1.794-4,4-4s4,1.794,4,4S8.206,51,6,51z M33,49c0,2.206-1.794,4-4,4s-4-1.794-4-4
                 s1.794-4,4-4S33,46.794,33,49z M29,31c-3.309,0-6-2.691-6-6s2.691-6,6-6s6,2.691,6,6S32.309,31,29,31z M47,41c0,1.103-0.897,2-2,2
-                s-2-0.897-2-2s0.897-2,2-2S47,39.897,47,41z M49,10c-2.206,0-4-1.794-4-4s1.794-4,4-4s4,1.794,4,4S51.206,10,49,10z"></path></svg></button></div><div class="global-graph-outer"><div class="global-graph-container" data-cfg="{&quot;drag&quot;:true,&quot;zoom&quot;:true,&quot;depth&quot;:-1,&quot;scale&quot;:1,&quot;repelForce&quot;:2.5,&quot;centerForce&quot;:0.2,&quot;linkDistance&quot;:60,&quot;fontSize&quot;:0.5,&quot;opacityScale&quot;:3,&quot;showTags&quot;:true,&quot;removeTags&quot;:[],&quot;focusOnHover&quot;:true,&quot;enableRadial&quot;:true}"></div></div></div></div><footer class><p>Creado con <a href="https://quartz.jzhao.xyz/">Quartz v5.0.0</a> © 2026</p><ul><li><a href="https://github.com/josue-fourier/BibliotecaDiftel">GitHub</a></li></ul></footer></div></div></body><script src="./static/resource-after-e13fffa1.js" type="application/javascript" data-persist="true"></script><script src="./static/resource-after-8b336f9a.js" type="application/javascript" data-persist="true"></script><script src="./static/resource-after-baba652b.js" type="application/javascript" data-persist="true"></script><script src="./static/resource-after-5eb75950.js" type="module" data-persist="true"></script><script src="https://cdn.jsdelivr.net/npm/katex@0.16.11/dist/contrib/copy-tex.min.js" type="application/javascript" data-persist="true"></script><script src="./postscript-4655a0d8.js" type="module" data-persist="true"></script></html>
+                s-2-0.897-2-2s0.897-2,2-2S47,39.897,47,41z M49,10c-2.206,0-4-1.794-4-4s1.794-4,4-4s4,1.794,4,4S51.206,10,49,10z"></path></svg></button></div><div class="global-graph-outer"><div class="global-graph-container" data-cfg="{&quot;drag&quot;:true,&quot;zoom&quot;:true,&quot;depth&quot;:-1,&quot;scale&quot;:1,&quot;repelForce&quot;:2.5,&quot;centerForce&quot;:0.2,&quot;linkDistance&quot;:60,&quot;fontSize&quot;:0.5,&quot;opacityScale&quot;:3,&quot;showTags&quot;:true,&quot;removeTags&quot;:[],&quot;focusOnHover&quot;:true,&quot;enableRadial&quot;:true}"></div></div></div><div class="backlinks"><h3>Retroenlaces</h3><ul id="list-0" class="overflow"><li><a href="./" class="internal">Biblioteca Diftel</a></li><li class="overflow-end"></li></ul></div></div><footer class><p>Creado con <a href="https://quartz.jzhao.xyz/">Quartz v5.0.0</a> © 2026</p><ul><li><a href="https://github.com/josue-fourier/BibliotecaDiftel">GitHub</a></li></ul></footer></div></div></body><script src="./static/resource-after-e13fffa1.js" type="application/javascript" data-persist="true"></script><script src="./static/resource-after-8b336f9a.js" type="application/javascript" data-persist="true"></script><script src="./static/resource-after-baba652b.js" type="application/javascript" data-persist="true"></script><script src="./static/resource-after-5eb75950.js" type="module" data-persist="true"></script><script src="https://cdn.jsdelivr.net/npm/katex@0.16.11/dist/contrib/copy-tex.min.js" type="application/javascript" data-persist="true"></script><script src="./postscript-4655a0d8.js" type="module" data-persist="true"></script></html>
